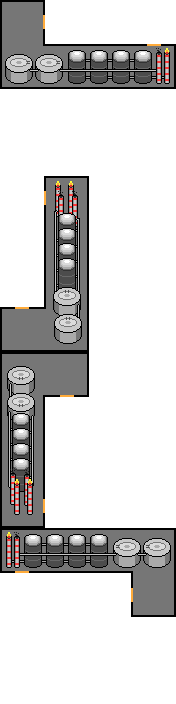
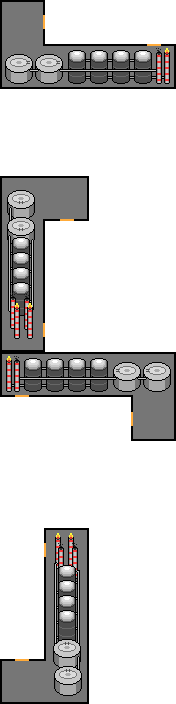
Fixed adv chem plant image

diff --git a/core/src/main/java/com/main/CoreWorks/screens/CharacterSelectScreen.java b/core/src/main/java/com/main/CoreWorks/screens/CharacterSelectScreen.java
@@ -58,7 +58,7 @@ public class CharacterSelectScreen extends GameScreen {
         characterList.add(PlayerDatabase.getPlayer("Engineer"));
         characterList.add(PlayerDatabase.getPlayer("Chemist"));
         characterList.add(PlayerDatabase.getPlayer("Commander"));
-        // characterList.add(PlayerDatabase.getPlayer("Tester"));
+        characterList.add(PlayerDatabase.getPlayer("Tester"));
 
         // Copy-paste code to add more characters
 
